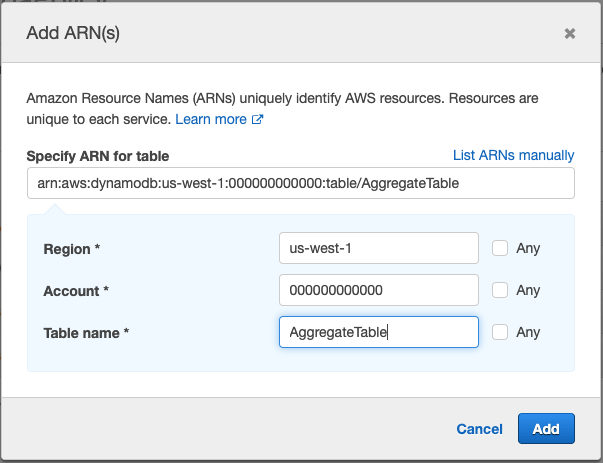
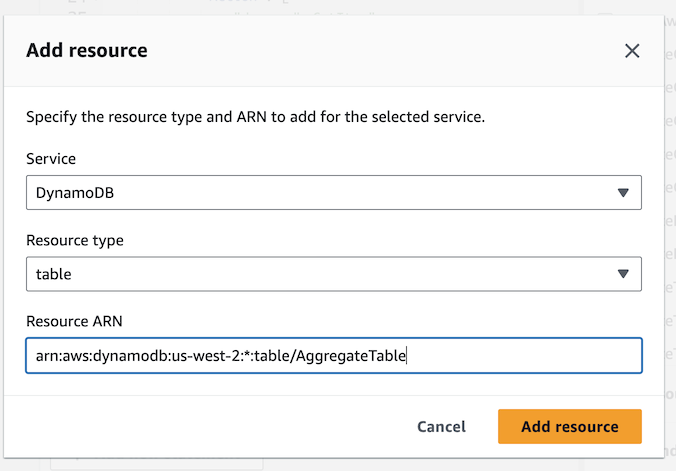
LEDA updates for new IAM console and region change to PDX

Changed region(s): [[0.0, 0.0, 1.0, 1.0], [0.6269, 0.8769, 0.6866, 0.9374], [0.9254, 0.0605, 0.9552, 0.121]]

diff --git a/content/event-driven-architecture/ex2pipeline/Step3.en.md b/content/event-driven-architecture/ex2pipeline/Step3.en.md
@@ -49,7 +49,7 @@ The error message above informs you that the `ReduceLambda` function doesn't hav
 
 ![Architecture-1](/static/images/event-driven-architecture/lab1-permissions/click_on_role.png)
 
-4. Now you're redirected to the IAM service, where you see the details of the `ReduceLambdaRole`. There is a policy associated with this role, the `ReduceLambdaPolicy`. Expand the view to see the current permissions of the `ReduceLambda` function. Now, click on the button `Edit policy` to add additional permissions.
+4. Now you're redirected to the IAM service, where you see the details of the `ReduceLambdaRole`. There is a policy associated with this role, the `ReduceLambdaPolicy`. Expand the view to see the current permissions of the `ReduceLambda` function. Now, click on the button `Edit` to add additional permissions.
 
 ![Architecture-1](/static/images/event-driven-architecture/lab1-permissions/click_on_edit_policy.png)
 
@@ -57,37 +57,33 @@ The error message above informs you that the `ReduceLambda` function doesn't hav
 ::alert[There is already an IAM permission in place for DynamoDB: this is necessary to ensure the workshop runs as expected. Don't get confused by this and please don't delete the permissions we've already granted! All of the Lambda functions need to be able to access the ParameterTable to check the current progress of the lab and the respective failure modes.]
 
 * First we need to add permissions so the `ReduceLambda` function is able to read messages from the stream of the `ReduceTable`.
-    * Click on `Add additional permissions`
-    * For `Service`, select  `DynamoDB`
-    * At `Actions`, under `Access level`, expand `Read`
-    * Check the following four checkboxes: `DescribeStream`, `GetRecords`, `GetShardIterator`, and `ListStreams`
+    * Click on `Add new statement`
+      ![Architecture-1](/static/images/event-driven-architecture/lab1-permissions/click_add_new_statement.png)
+    * For `Service`, select `DynamoDB`
+    * Under `Access level - read`, check the following four checkboxes: `DescribeStream`, `GetRecords`, `GetShardIterator`, and `ListStreams`
 
-![Architecture-1](/static/images/event-driven-architecture/lab1-permissions/add_permissions.png)
 
-Now we need to associate these permissions with specific resources (e.g. we want the `ReduceLambda` to be able to read exclusively from the `ReduceTable` alone). Hence, expand `Resources`, and click on `Add ARN to restrict access`. Next, fill out the following:
- * `Region` - The lab defaults to us-west-1, but verify your region and ensure the correct one is entered
- * `Account` - The AWS account id. It should be pre-filled
- * `Table name` - The name should be `ReduceTable`
- * `Stream label` - Ensure the `Any` box is checked so that any stream label is supported. A Stream label is a unique identifier for a DynamoDB stream.
-* Finally, click on `Add`. You've now granted permission for the `ReduceLambda` to read from the `ReduceTable` stream, but there is more to be done still.
+Now we need to associate these permissions with specific resources (e.g. we want the `ReduceLambda` to be able to read exclusively from the `ReduceTable` alone). Hence, under `Add a resouce`, and click on `Add`. Then in `Resource type` choose `stream`. Next, fill out the following:
+ * `{Region}` - The lab defaults to us-west-2, but verify your region and ensure the correct one is entered
+ * `{Account}` - The AWS account id. You can put an asterisk here if you don't want to get the exact account id.
+ * `{TableName}` - The name should be `ReduceTable`
+ * `{StreamLabel}` - Add an asterisk `*` so that any stream label is supported. A Stream label is a unique identifier for a DynamoDB stream.
+* Finally, click on `Add resource`. You've now granted permission for the `ReduceLambda` to read from the `ReduceTable` stream, but there is more to be done still.
 
-::alert[The pre-filled value for `Account` is your AWS Account ID: This is already the correct value for this field, so please don't change it.]
+::alert[Be sure to remove all curly braces from your ARN before clicking `Add resource`]
 
 ![Architecture-1](/static/images/event-driven-architecture/lab1-permissions/resource_stream.png)
 
 If we make no further change, the `ReduceLambda` function will not be able to update the final results in the `AggregateTable`. We must modify the policy to add additional permissions to grant `UpdateItem` access to the function.
-     * Click on `Add additional permissions`
-    * For `Service`, select  `DynamoDB`
-    * At `Actions`, under `Access level`, expand `Write`
-    * Select the checkbox `UpdateItem`
-![Architecture-1](/static/images/event-driven-architecture/lab1-permissions/add-permissions-write.png)
-
-* Again, we want to associate theses permissions with a specific resources: We want the `ReduceLambda` to be able to write to the `AggregateTable` alone. Hence, expand `Resources`, and click on `Add ARN to restrict access`. Next, enter the values for `Region` (using the same region as before), `Account` (leave the pre-filled account id), and `Table name` (this time it should be `AggregateTable`).
-* Click `Add`.
+ * Click on `Add new statement`
+ * For `Service`, select  `DynamoDB`
+ * Under `Access level - read or write`, select the checkbox `UpdateItem`
+* Again, we want to associate theses permissions with a specific resources: We want the `ReduceLambda` to be able to write to the `AggregateTable` alone. Hence, click on `Add a resource` and in the `Resource type` drop down choose `table`. Next, enter the values for `Region` (using the same region as before), `Account` (consider using an asterisk `*`), and `TableName` (this time it should be `AggregateTable`).
+* Click `Add resource`.
 
 ![Architecture-1](/static/images/event-driven-architecture/lab1-permissions/resource_stream_2.png)
 
-* Finally, click `Review Policy` and then `Save changes` in the bottom right corner.
+* Finally, click `Next` and then `Save changes` in the bottom right corner.
 
 ## Try again to connect ReduceLambda to the ReduceTable stream
 

diff --git a/content/event-driven-architecture/ex3fixbugs/Step3.en.md b/content/event-driven-architecture/ex3fixbugs/Step3.en.md
@@ -6,26 +6,27 @@ weight: 3
 
 Congratulations, you successfully completed *Lab 2*! If you've made it here and still have time left, we have added one optional step to the workshop for you!
 
-In this step, you will start an AWS Cloud9 instance and run a Python frontend that scans the DynamoDB `AggregateTable` twice per second and displays the results, i.e. the aggregated values for the different risk types, in your terminal.
+In this step, you will use an AWS Cloud9 instance and run a Python frontend that scans the DynamoDB `AggregateTable` twice per second and displays the results, i.e. the aggregated values for the different risk types, in your terminal.
 
 ![Architecture-1](/static/images/event-driven-architecture/lab2/lab2-optional.png)
 
-::alert[AWS Cloud9 is by far not the only option to run this Python-based frontend! If you're motivated, feel free to try running it locally on your PC (make sure you run `aws configure` first - you can get your credentials on the EventEngine dashboard), or from any EC2 instance (e.g. assign an IAM role to the EC2 instance that allows access to the `AggregateTable`).]
+::alert[AWS Cloud9 is by far not the only option to run this Python-based frontend! If you're motivated, feel free to try running it locally on your PC (make sure you run `aws configure` first - you can get your credentials on the Workshop Studio dashboard), or from any EC2 instance (e.g. assign an IAM role to the EC2 instance that allows access to the `AggregateTable`).]
 
-## Start an AWS Cloud9 instance
+## On your own? Start an AWS Cloud9 instance
 Since you're clearly experienced with AWS - making it through all of the lab - we'll leave this task up to you!
-
-## Run the Python frontend
 Once you're Cloud9 instance is running, make sure that the required Python library `boto3` is installed:
 
 ```python
 pip3 install --user boto3
 ```
 
+## At an AWS event? Connect to Cloud9
+Navigate to the Cloud9 section of the AWS Management Console. Ensure you're in the correct region, the same as the resource you've worked with so far. There should be an IDE ready - click `Open`.
+
+## Let's continue...
 Now, you can copy the code below into a file, give it a descriptive name (e.g. `frontend.py`) and run it (`python3 frontend.py`). You should see the current aggregates from the `AggregationTable`, with new messages coming in every 60 seconds!
 
-::alert[Edit the script to update the correct region value of **REGION_NAME** as per the region you are running the lab in. Use the value in **Code** from [AWS Docs](https://docs.aws.amazon.com/AWSEC2/latest/UserGuide/using-regions-availability-zones.html#concepts-available-regions).
-For example, for Ireland, enter **eu-west-1**.]
+::alert[Edit the script to update the correct region value of **REGION_NAME** as per the region you are running the lab in. Use the value in **Code** from [AWS Docs](https://docs.aws.amazon.com/AWSEC2/latest/UserGuide/using-regions-availability-zones.html#concepts-available-regions). For example, for Ireland, enter **eu-west-1**.]
 
 ```python
 # Copyright Amazon.com, Inc. or its affiliates. All Rights Reserved.
@@ -48,7 +49,7 @@ import boto3
 # Constants
 # --------------------------------------------------------------------------------------------------
 
-REGION_NAME                     = 'us-west-1'
+REGION_NAME                     = 'us-west-2'
 
 AGGREGATE_TABLE_NAME            = 'AggregateTable'
 AGGREGATE_TABLE_KEY             = 'Identifier'

diff --git a/content/change-data-capture/setup/index.en.md b/content/change-data-capture/setup/index.en.md
@@ -16,7 +16,7 @@ To run this lab, you will need an AWS account, and a user identity with access t
 * Amazon Simple Queue Service
 * AWS Cloud9 Environment
 
-You can use your own account, or an account provided through Event Engine as part of an AWS organized workshop.  Using an account provided by Event Engine is the easier path, as you will have full access to all AWS services, and the account will terminate automatically when the event is over.
+You can use your own account, or an account provided through Workshop Studio as part of an AWS organized workshop.  Using an account provided by Workshop Studio is the easier path, as you will have full access to all AWS services, and the account will terminate automatically when the event is over.
 
 To set up this workshop, choose one of the following links, depending on whether you are:
 - :link[Attending an AWS-hosted event (using AWS-provided access codes)]{href="/change-data-capture/setup/aws-ws-event/"}

diff --git a/content/change-data-capture/clean-up/index.en.md b/content/change-data-capture/clean-up/index.en.md
@@ -9,7 +9,7 @@ Congratulations! You have made it to the end of the workshop.
 
 In this workshop you explored capturing item level changes on a DynamoDB table using DynamoDB Streams and Kinesis Data Streams. In this instance, you wrote the previous version of updated items to a different DynamoDB table. By applying these same techniques, you can build complex event driven solutions that are triggered by changes to items you have stored on DynamoDB.
 
-If you used an account provided by Event Engine, you do not need to do any cleanup. The account terminates when the event is over.
+If you used an account provided by Workshop Studio, you do not need to do any cleanup. The account terminates when the event is over.
 
 If you used your own account, please remove the following resources:
 
